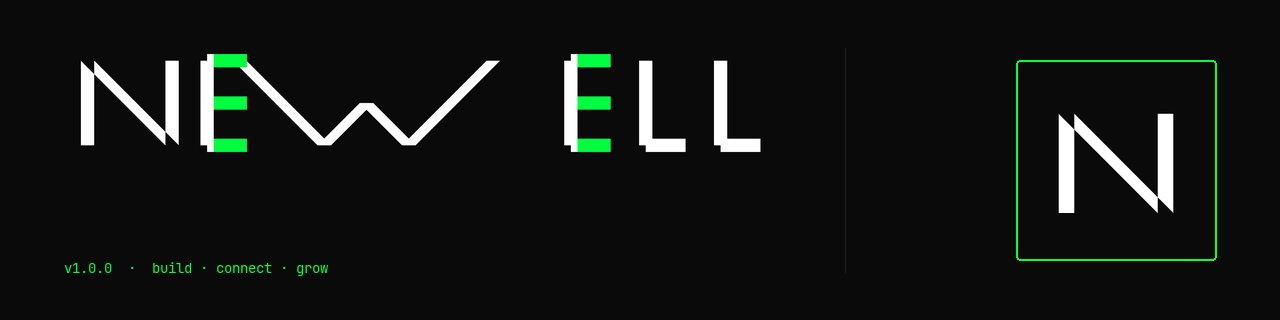
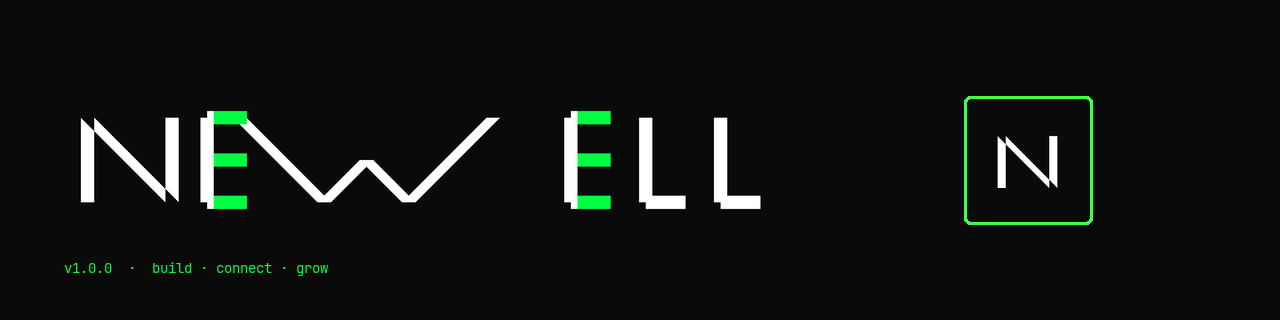
feat(readme): keyboard-keycap N tile + nmojibutton footer badge
- hero: replace square-tile N with keyboard-keycap style (#3FFF46 rim,
  #0a0a0a inner cap, white N glyph) matching KeyboardBase.astro aesthetic
- keycap 128px, vertically centered with wordmark, 180px gutter
- footer: replace signoff-monogram.png with nmojibutton.png badge
  matching the splash repo pattern (right-aligned, links to jordannewell.com)

diff --git a/README.md b/README.md
@@ -64,5 +64,7 @@
 <br>
 
 <p align="right">
-  <img src="signoff-monogram.png" width="120" alt="— JN">
+  <a href="https://jordannewell.com" title="Built by Jordan Newell">
+    <img src="nmojibutton.png" width="72" alt="Built by Jordan Newell">
+  </a>
 </p>
